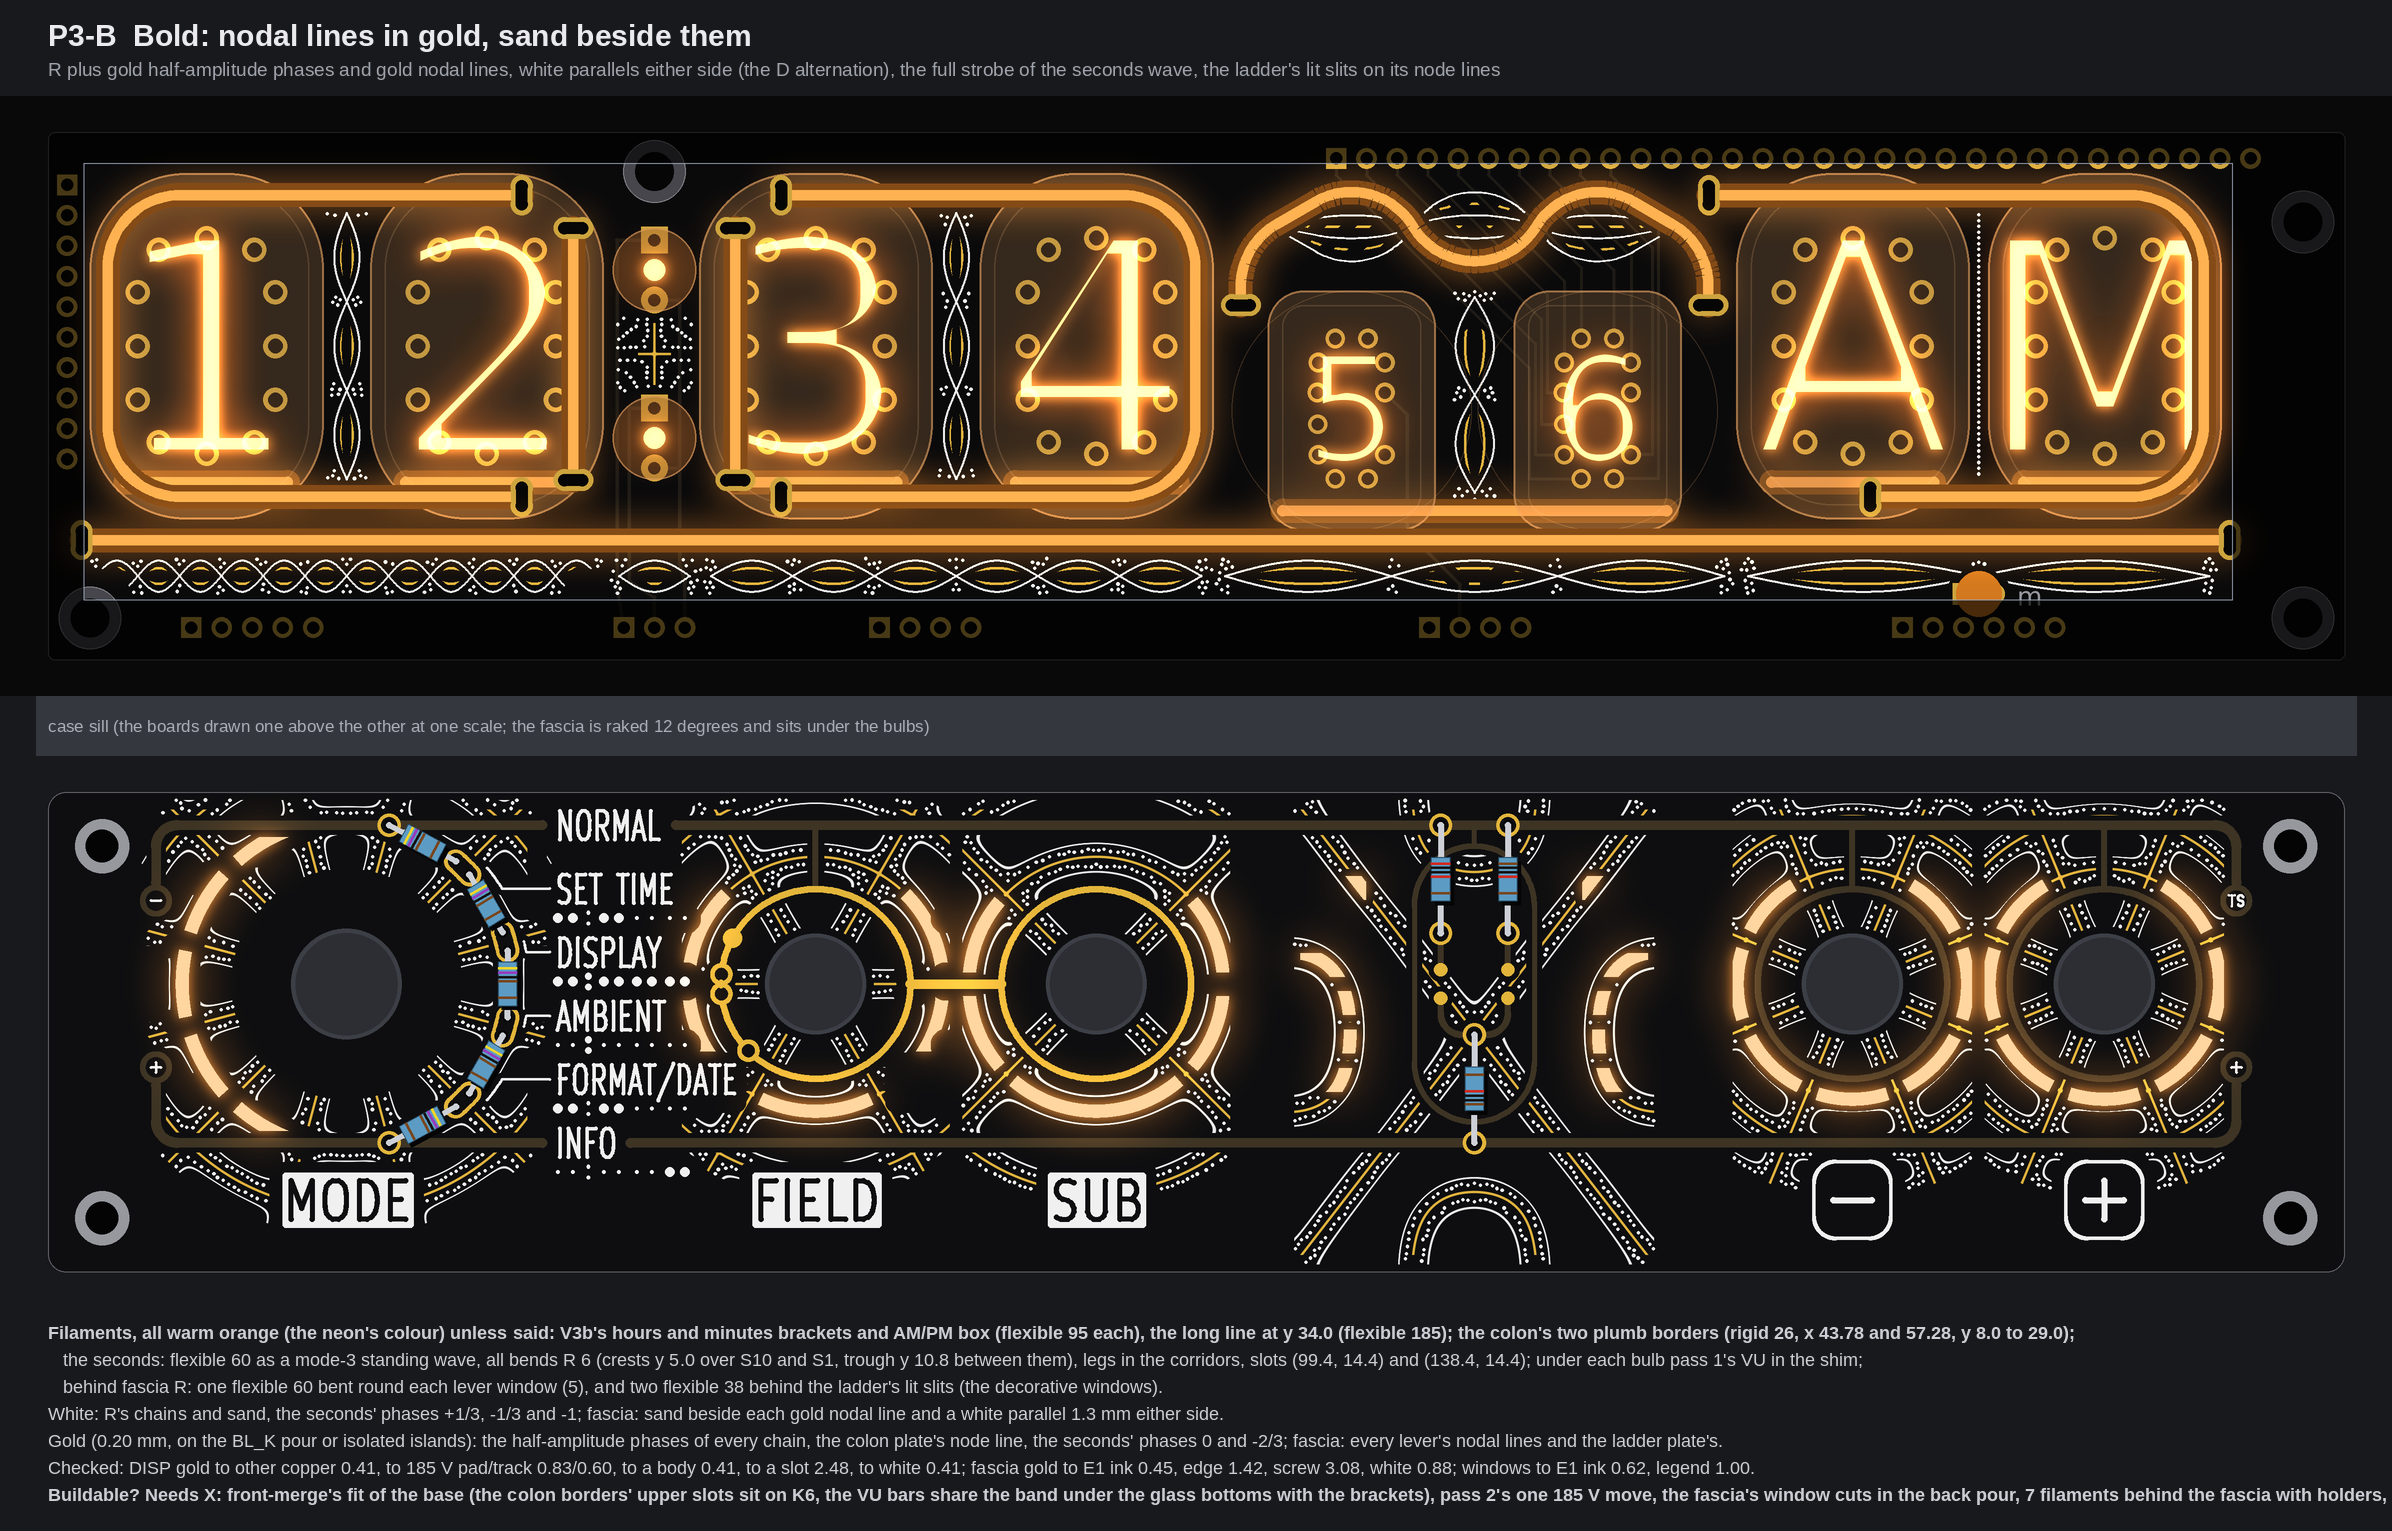
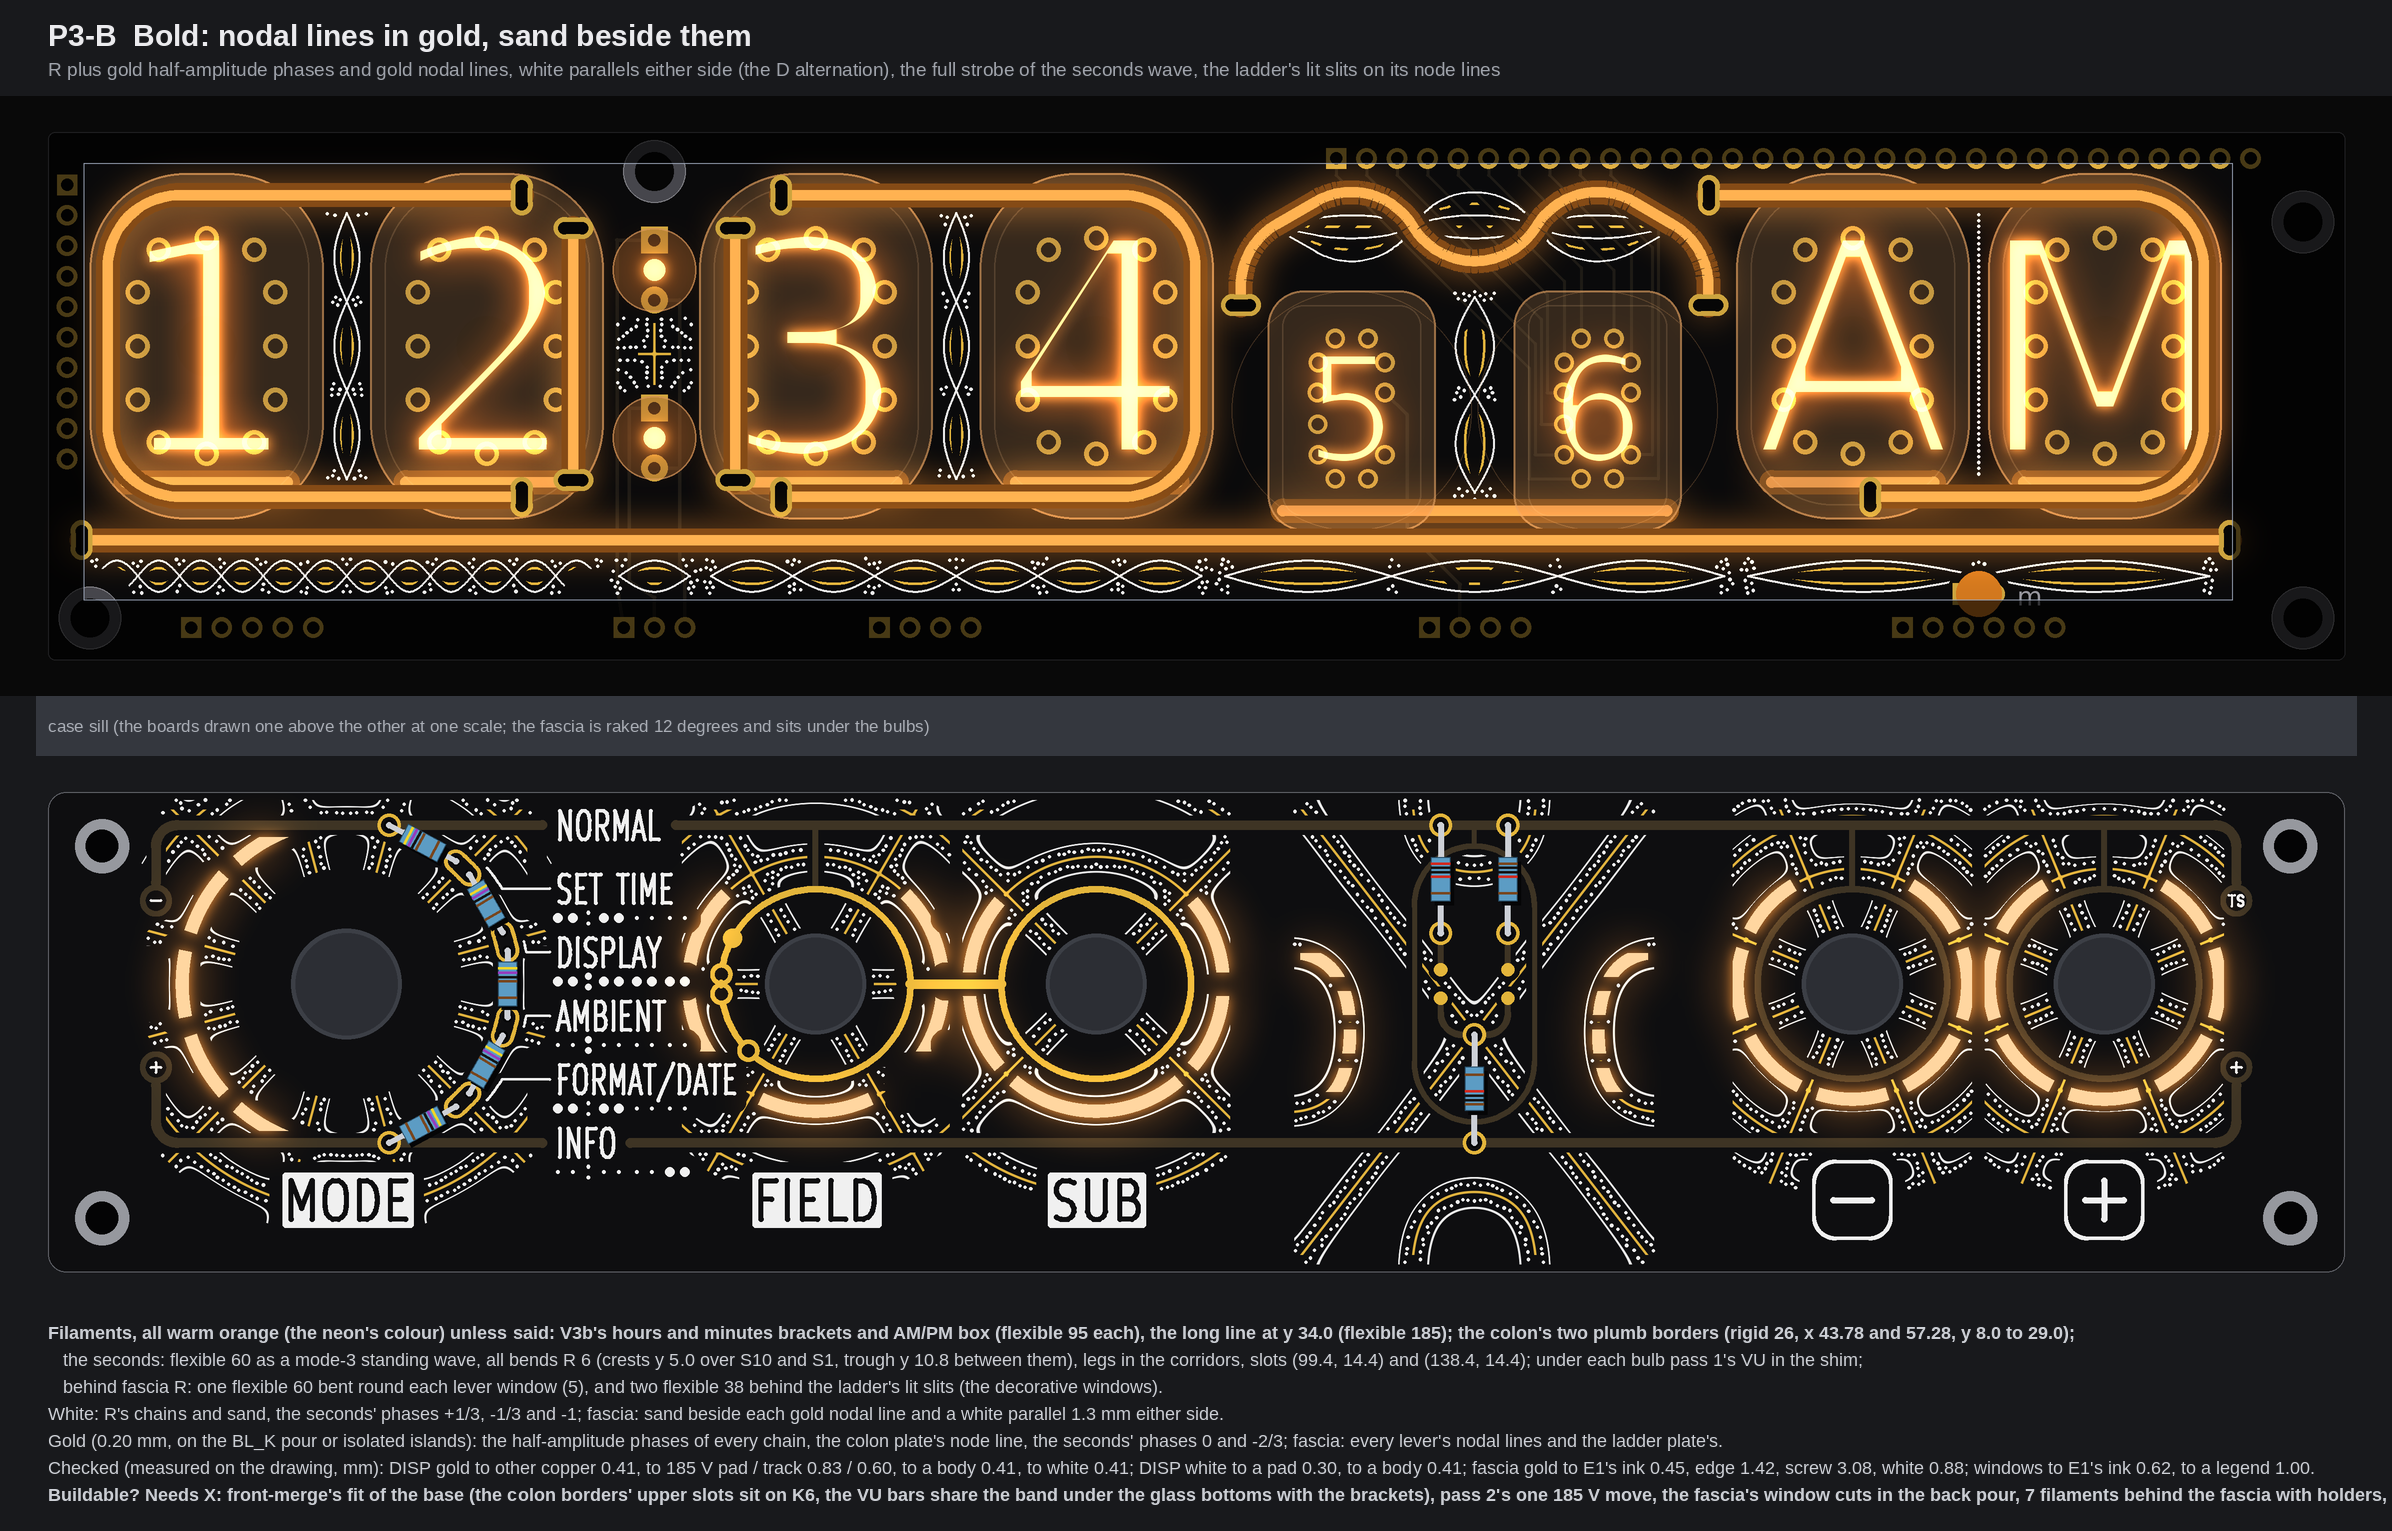
front-pattern P3 Chladni: write-up, contact sheet, 2x detail of B; owner's SUB marks drawn; faces re-rendered
Claude-Session: https://claude.ai/code/session_01WoV3gyAFgmtuk6W6Dr4bdA

diff --git a/PCB/art/TS06-FRONT-pattern-P3-chladni.md b/PCB/art/TS06-FRONT-pattern-P3-chladni.md
@@ -1,0 +1,98 @@
+# TS06 front pattern P3, "Chladni": sand on a vibrating plate (three faces, TS06-DISP above fascia R; drawings only, nothing built)
+
+No board, schematic, fab, tool, 3D, firmware or spec file was touched. The pictures are drawn from `PCB/TS06-DISP/TS06-DISP.kicad_pcb` (through pass 2's extract) and fascia R (the copy with its control holes opened that pass 4 used), read with Python and never written. Marks: *measured* is from the board files or the drawing; *inferred* is arithmetic; *assumed* is my reading. The scratch scripts are in the run's scratch folder (`front-pattern/P3`), not in the repo.
+
+![The three faces at one scale](TS06-FRONT-pattern-P3-chladni/contact-sheet.png)
+
+## 1. The idea
+
+A plate held at one point and bowed at its edge rings in one mode; sand runs off the parts that move and piles up on the lines that stand still (the nodal lines). So, on both boards:
+
+* **White dots are the sand.** They gather on a nodal line, thick on it and thinning away from it.
+* **Thin gold is the nodal line itself**, with white parallels either side in the bolder faces: white, gold, white, as the owner liked in D.
+* **Each zone and each lever is its own plate, in its own mode.** The numbers are not random; each counts something:
+
+| Plate | Mode | What the count says |
+|---|---|---|
+| Hours (DISP) | a bar with 12 loops under the long line; 3 loops plumb between H10 and H1 | 12 hours |
+| Colon | a bar with 1 loop; a square plate (1, 3) between the two lamps | one beat |
+| Minutes | 6 loops; 3 plumb between M10 and M1 | the tens of minutes, 0 to 5 |
+| Seconds | 3 loops, the same mode as the seconds glyph above; 2 plumb between S10 and S1 | the glyph's own mode |
+| AM/PM | 2 loops; the amber m lamp (HL9, moved 3.0 mm down by V3b) stands exactly on the middle node | two halves of the day |
+| MODE (fascia) | circular, 6 nodal diameters | its six positions: the diameters fall at ±15°, ±45°, ±75° from level, exactly where E1's resistor taps (±15°, ±45°) and the chain's two ends (±75°) sit |
+| FIELD | circular, 3 nodal diameters | its own figure |
+| SUB | circular, 2 | its own figure |
+| − and + | circular, 4 each, mirror images about x 160.9 | the pair |
+| The ladder | a rectangular plate (2, 4) about x 118.9 | the seconds' axis on the fascia |
+
+* **Symmetry is exact.** Every plate is mirrored about its own axis, and the art is cut by a mask that is itself mirrored (a pixel is used only if its mirror image is free too). Nothing on a plate is near-symmetric. The one form that is not mirrored about its own lever is MODE's window: it is the mirror image of E1's resistor chain on the other side of the dial (same radius, 13.7 mm, same angles), so the dial reads as one symmetric figure: lit arc on the left, resistor arc on the right.
+* **Info first.** Art is drawn only on free ground: white keeps 0.45 mm from all of E1's ink and 0.9 mm from every name, plate, key legend and tube-map dot; gold keeps 0.45 mm from E1's ink, 1.4 mm from the edge and 3.0 mm from a screw; on DISP nothing goes under the glass (0.5 mm), within 0.4 mm of a filament body or slot pad, or on a pad. No line crosses a legend; the names, the tube map and the gold function marks stand on clear ground in all three faces.
+* **The owner's SUB decision is drawn** (the note of 2026-10-14): E1's two long SUB arcs and the name stubs are gone; FIELD's gold ring carries a dot at the point closest to SET TIME and a small circle (the ring broken inside it) at the points closest to DISPLAY, AMBIENT and FORMAT/DATE; the FIELD-SUB link stays. That freed the ground round FIELD and SUB for their windows.
+
+### The seconds glyph: a standing wave, not a sine
+
+The filament (flexible 60, warm orange) is the string at the top of its swing in mode 3: crest over S10, trough between the pair, crest over S1. Every bend is R 6 (crest and trough arcs of 58.7° either side, straights of 3.7 mm at 30°), the legs stand in the corridors, slots at (99.4, 14.4) and (138.4, 14.4), slot to slot 54.0 mm for a 60. Crest tops y 5.0 over the tube centres (the body's edge meets the valance), trough y 10.8, the string's rest line y 7.9. Round it, in white and thin gold, the other phases of the same wave: the same curve scaled about the rest line (+1/3, 0, −1/3, −2/3, −1 in B), so all of them pinch through the two nodes where the filament crosses its rest line. That is what makes it a standing wave rather than a travelling sine: a bundle of strings pinched at fixed nodes, the filament the brightest of them, the mirrored phase (−1) a white ghost of it. *Measured:* slots 1.76 and 2.16 mm from other copper, 7.0 mm or more from 185 V; body 1.3 mm from the ИН-17 glass, 1.75 from the stems.
+
+## 2. The base every face keeps
+
+* **DISP = pass 2's V3b, no growth:** hours and minutes brackets and the AM/PM box (flexible 95 each), the long line at y 34.0 (flexible 185), HL9 3.0 mm lower at (160.9, 38.5). **Colon: two plumb rigid 26 bars at x 43.78 and 57.28**, y 8.0 to 29.0, borders to both lamps (V3b's horizontal bar dropped). **Under every bulb** pass 1's VU in the shim, seen through the glass (rigid 18.5 under each ИН-12 and ИН-15 at y 29.2, flexible 38 under the ИН-17 pair at y 31.6). Every filament warm orange; W shows the second colour (ice) under the bulbs.
+* **Fascia R = E1** with the owner's SUB marks, **windows round the levers** (bare FR4, lit from behind), **decorative lit windows** (the ladder's slits) and **rails under the mask** (E1's, plus W's on each lever's second nodal circle).
+* **The windows are the plates' first nodal circles**, cut where the nodal diameters cross them (1.6 mm of mask left across each): MODE r 13.7, the six-fold cut (5 arcs, 150° on the left); FIELD and SUB r 10.6, three- and two-fold; − and + r 9.6, four-fold. Behind each, one flexible 60 bent to the window's radius (body 50 mm: 270° at r 10.6, 298° at r 9.6; the window is drawn only where the body reaches, centred on the bottom). The ladder's slits stand on its own plate's node lines either side of the capsule (x 118.9 ± 9 to 14.5, y 7 to 25), 2.0 mm long with 1.2 mm bridges, as W's grille: eight slits, four a side, mirrored; two flexible 38 behind them.
+
+## 3. Face R, restrained: sand on the nodes
+
+![R](TS06-FRONT-pattern-P3-chladni/p3-r-sand-on-the-nodes.png)
+
+* **Filaments:** the base (section 2), all warm orange; on the fascia the five lever windows 0.9 mm wide and the ladder's slits.
+* **White:** each zone's bar standing wave under the long line, drawn as its two extreme phases (a chain of lenses: 12, 1, 6, 3, 2 loops), the same plumb in the gaps between the paired tubes, the colon's square plate between the lamps, a pile of sand across every node, one plumb line of grains in the 1.5 mm gap between AM and PM; the seconds' rest line and opposite phase (0 and −1). Fascia: sand only, on each lever's nodal lines and the ladder's.
+* **Gold:** E1's (with the SUB marks); on DISP one thin rest line inside each lens of the chains (the string at rest), stopping 0.3 mm short of the white at every node, on the BL_K pour (152 mm). No added gold on the fascia.
+* **Buildable? Needs X:** the base's own items (section 6), the window cuts and the seven filaments behind the fascia. The art itself is silk and mask openings on the pour.
+
+## 4. Face B, bold: nodal lines in gold, sand beside them
+
+![B](TS06-FRONT-pattern-P3-chladni/p3-b-nodal-lines.png)
+
+* **Filaments:** as R; windows 1.1 mm wide.
+* **White:** R's chains, piles and plates; the seconds' phases +1/3, −1/3 and −1; on the fascia, sand beside every gold nodal line and a white parallel 1.3 mm either side of it (white, gold, white).
+* **Gold (0.20 mm):** the half-amplitude phases (±1/2) of every chain on DISP, on the BL_K pour; the colon plate's node line; the seconds' phases 0 and −2/3 (broken where KS tracks cross on F.Cu); on the fascia every lever's nodal lines and the ladder plate's, as isolated islands. 193 mm of gold on DISP, 470 mm on the fascia (E1's FIELD-SUB link at 0.8 mm and the lever rings at 0.5 stay the heaviest gold; the added lines are 0.20).
+* **Buildable? Needs X:** as R. The gold needs nothing new: mask openings on the BL_K pour (DISP) and isolated islands (fascia).
+
+## 5. Face W, wild: the whole plate sings
+
+![W](TS06-FRONT-pattern-P3-chladni/p3-w-whole-plate.png)
+
+* **Filaments:** as B, windows 1.3 mm wide; **the under-bulb filaments shown in ice**, the second colour, to show the choice (warm orange stays the default).
+* **White:** B's, plus the rest line of every chain; the seconds' bundle in six phases (+0.15, −0.45, −1 white); on the fascia a second white parallel 2.9 mm off each nodal line; more sand.
+* **Gold:** B's chains; the seconds' phases +0.45, −0.15, −0.75; on the fascia a gold parallel 2.1 mm off each nodal line (white, gold, white, gold, white either side). **Copper under the mask** (a dark sheen, no opening) on each lever's second nodal circle: rails, as W's.
+* **Buildable? Needs X:** as B, and the ice option needs front-merge's second filament under each bulb.
+
+## 6. The checks in one place
+
+Measured on the drawn pixels (12 px per mm, so to about 0.1 mm), every value the least found:
+
+| Check (rule) | R | B | W |
+|---|---|---|---|
+| DISP gold to other copper, pad or track (0.4) | 0.41 | 0.41 | 0.41 |
+| DISP gold to a 185 V pad / track (0.8 / 0.6) | 3.33 / 0.60 | 0.83 / 0.60 | 0.83 / 0.60 |
+| DISP gold to a filament body / slot pad (0.4) | 1.67 / 3.60 | 0.41 / 2.48 | 0.41 / 2.48 |
+| DISP gold to white (0.3) | 0.41 | 0.41 | 0.41 |
+| DISP white to a pad / body / glass (0.3 / 0.4 / 0.5) | 0.30 / 0.41 / 0.50 | 0.30 / 0.41 / 0.83 | 0.30 / 0.41 / 0.83 |
+| Fascia gold to E1's ink / edge / screw / a legend (0.45 / 1.4 / 3.0 / 0.9) | none drawn | 0.45 / 1.42 / 3.08 / 0.90 | 0.45 / 1.42 / 3.08 / 0.90 |
+| Fascia gold to white (0.3) | none | 0.88 | 0.39 |
+| Windows to E1's ink / a legend / the edge / a screw / a bush or the knob (0.6 / 1.0 / 1.5 / 3.0 / 0.6) | 0.62 / 1.00 / 3.71 / 6.97 / 4.22 | 0.62 / 1.00 / 3.71 / 6.87 / 4.12 | 0.62 / 1.00 / 3.71 / 6.77 / 4.02 |
+| Seconds wave: slots to other copper / 185 V; body to the ИН-17 glass / stems | 1.76 / 7.0; 1.30 / 1.75 | same | same |
+
+**What the base still needs (all three faces, not my geometry to fix; front-merge checks it):**
+
+1. The colon borders' upper slots at (43.78, 8.0) and (57.28, 8.0) sit 1.0 mm into K6 (B.Cu) as drawn at the nominal place.
+2. Pass 1's VU bars (y 29.2) and V3b's bracket and box runs under the glass bottoms (y 30.40) share one 4.4 mm band under each ИН-12 and ИН-15; drawn together the bodies overlap by 0.8 mm (*measured* on the centre lines, 1.22 mm apart for 2.0 mm bodies). One of them has to move; I drew both where their passes put them.
+3. Pass 2's one 185 V move (ANODE_H1, about 1 mm) for the hours bracket's lower slot; HL9 3.0 mm down.
+4. On the fascia: no copper on either side of each window (a cut in the back GND pour), seven filaments on the back with printed holders, and a connector and drive channels for them (J1's six pins are all used).
+
+*Assumed:* bare FR4 glows evenly from a filament lying behind it (pass 1's coupon question still stands); filament body 2.0 mm, bends R 6, slot 2 mm past the silicone (pass 1's model); the ИН-17s stand 7.8 mm off the board; that the gold of the bundle may be broken where KS0 to KS9 cross on F.Cu (it is drawn broken; moving them to B.Cu, B-deco's W item 3, would let it run whole).
+
+![B at 2x](TS06-FRONT-pattern-P3-chladni/detail-b-2x.png)
+
+## 7. My pick
+
+**B, nodal lines in gold.** It says the idea plainest: gold where the plate stands still, white sand piled beside it, one mode per zone and per lever, and a seconds glyph that reads as a standing wave because its ghost phases pinch through the same nodes; it needs nothing beyond the base, the windows and the filaments behind them.
